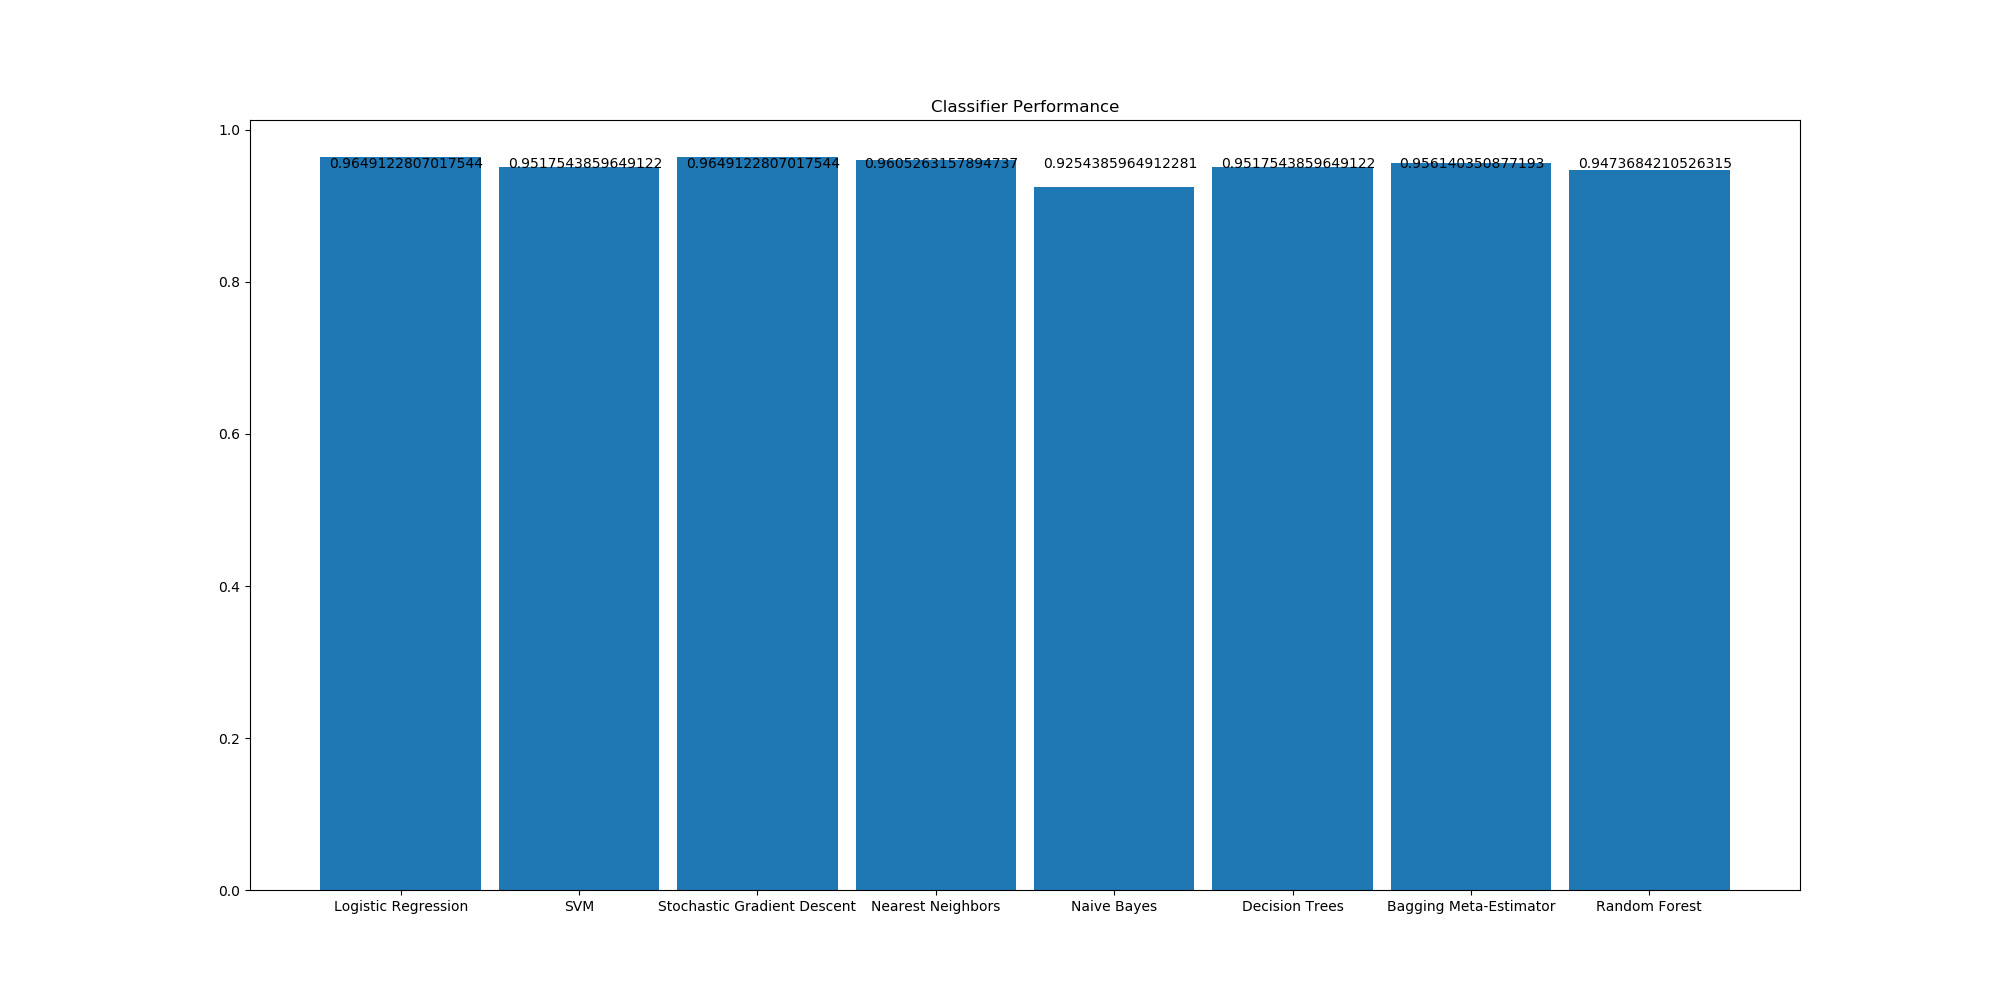
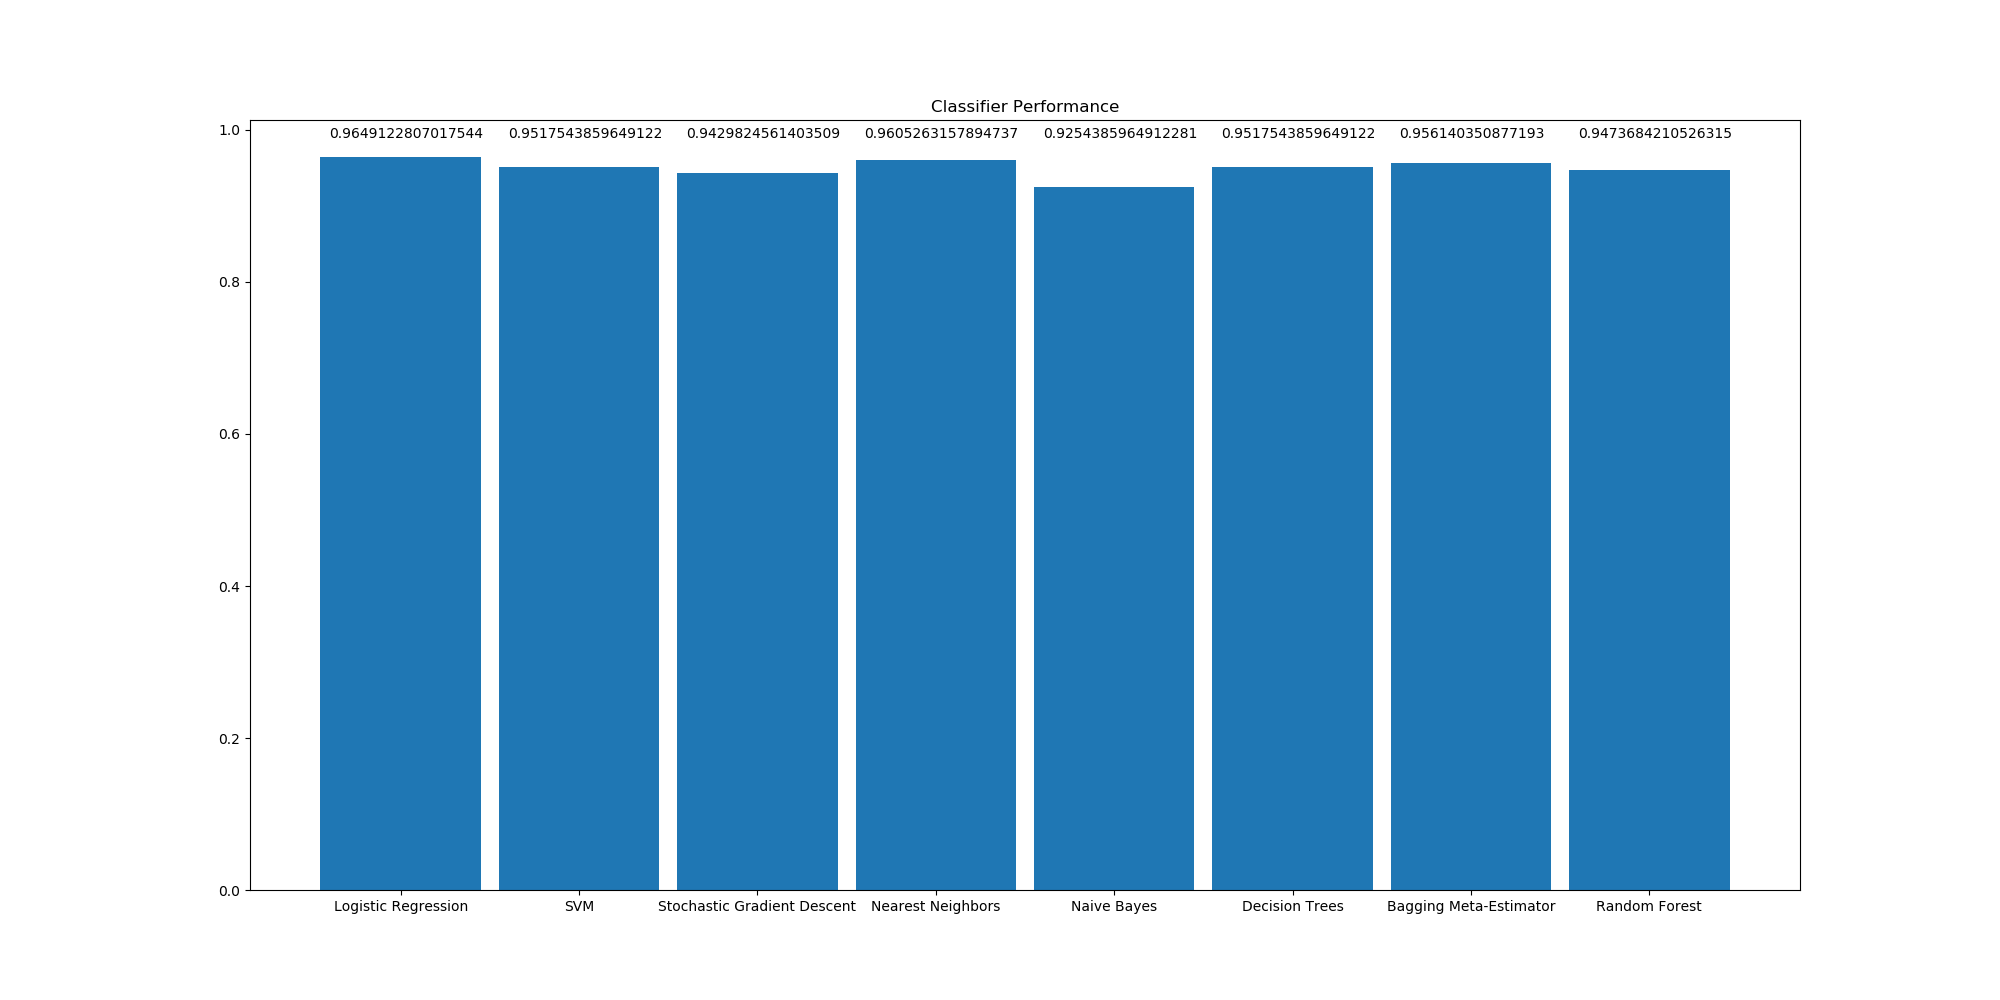
final changes

diff --git a/breastcancer_analysis.py b/breastcancer_analysis.py
@@ -71,7 +71,7 @@ ppt.xticks(ind, name_list)
 ppt.title("Classifier Performance")
 i=0
 for i in range(len(score)):
-    ppt.annotate(score[i], xy=(i-0.4,0.95))
+    ppt.annotate(score[i], xy=(i-0.4,0.99))
     i = i+1
 ppt.savefig ("Classifiers_Performance.png", format="PNG")
 
